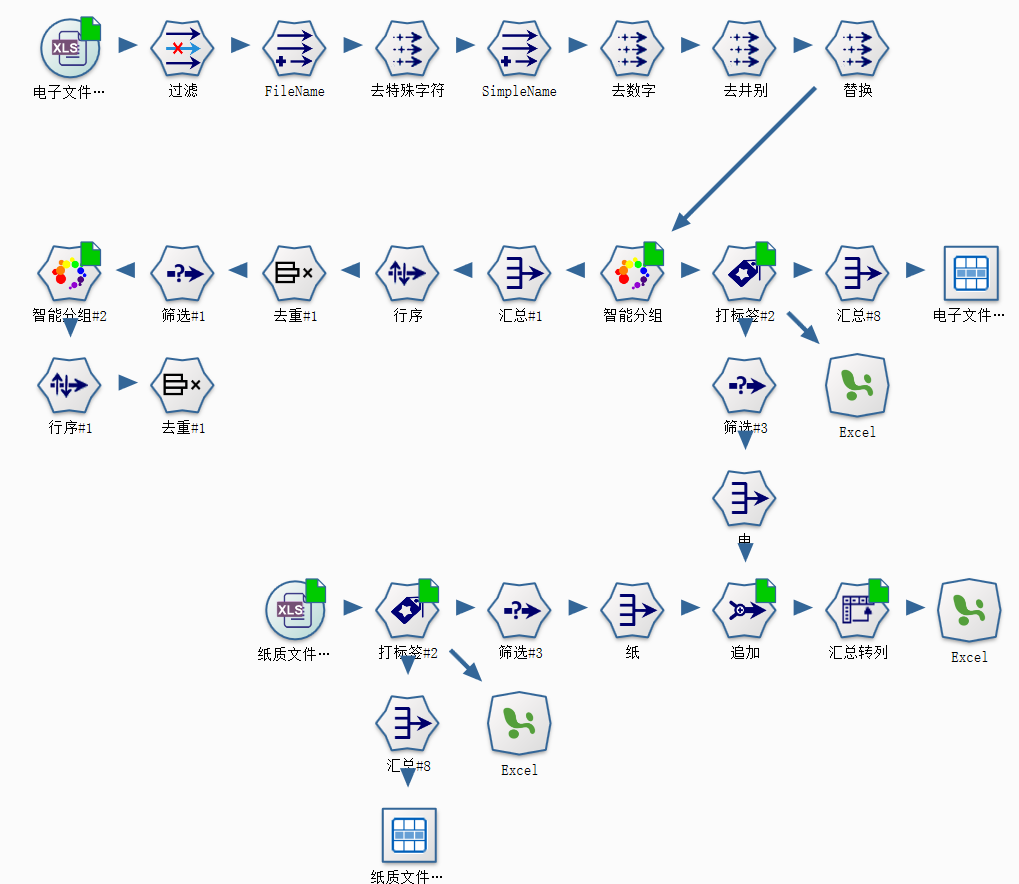
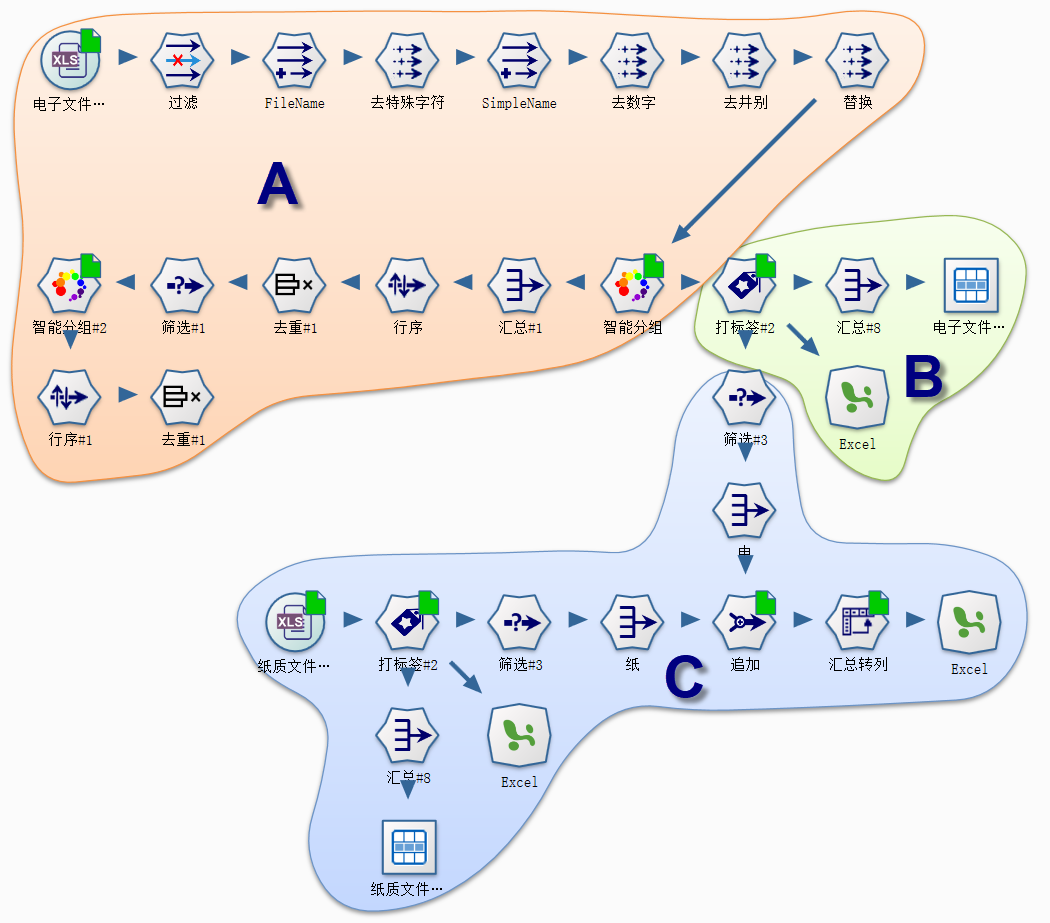
s
a

diff --git a/cases/oilfield/ArchivesStoreroom.rst b/cases/oilfield/ArchivesStoreroom.rst
@@ -2,39 +2,50 @@
 
 如何对杂乱的文档进行归类？
 ====================================
-档案馆，是大型企业的基本设施，存放着多年来的企业经营管理的基本数据。油田档案馆的数据资产化管理，以施工项目为数据归档单元，组织存放油田的单井钻井、录井、测井、试油气等油田生产建设资料；其主要目的是储存生产建设过程中的生产资料。随着油田信息化与数据的深化应用，这种以施工项目为索引的数据组织方式，难以满足油藏研究过程中的以专业学科为核心的深化应用需求。 
+档案馆，是大型企业的基本设施，存放着多年来的企业经营管理的基本数据。然而随着油田勘探开发的深入，对数据深度挖掘的需求越来越多，档案馆以单井施工打包归档的数据组织方式，与以专业数据库为主导的数据深化应用的研究需求之间鸿沟日渐明显。如何在两种数据组织方式之间搭建起桥梁跨越鸿沟，是本案例的研究的主题。
 
-本案例以来自于油田的130万条，文件目录为数据源，阐述如何通过数据专家系统对杂乱的文档进行专业化归类的方法。
+油田档案馆的数据资产化管理，将单井钻井、录井、测井、试油气等施工数据打包上传到档案库中，即“一井一目录”的数据组织方式；这种数据组织方式极大地减轻数据归档的工作量。油田勘探与开发过程中，数据深度挖掘与应用以专业数据库为基础，即按学科按专业分别建库，如钻井库、录井库、测井等。两者的出发点不同，使得数据的组织方式也相距甚远。
 
-**数据源描述**
+本案例，以油田档案馆文件目录为数据源，阐述如何通过数据专家系统对杂乱的文档进行业务归类的方法。
 
-从档案馆导出的130万条文件目录及井名信息；文件目录及名称标明了文档的所属学科大类、小类以及井名、盆地等信息；总体来说，文件目录中隐含着大量的文档归属信息，但相对隐晦、杂乱、层次不清。
+**杂乱有章有数据源**
+
+数据基础是从档案馆导出的130万条文件路径及井名信息；文件路径及名称标明了文档的所属学科大类、小类以及井名、盆地等信息。
+
+对于分组问题，笔者第一感觉可以根据文件路径包含的子串进行分类；然而由于文件归档来源于成千上万的施工单位，使得文件路径中虽包含业务学科信息，但并非严格意义上的子串相等或包含关系，即它们之间关系中相似关系。总体来说，文件路径中隐含着大量的文档业务归属信息，但相对隐晦、杂乱、层次不清。
 
 .. figure:: images/ArchivesStoreroom1.png
      :align: center
      :figwidth: 90% 
      :name: plate 	 
  
-**数据处理流程**
+**子串相似度流程设计**
 
-流程设计核心点在于，对每一个文件打标签，即根据文件目录与已知学科类型之间的文字相似度进行分类。打标签的先决条件是，单学科的涉及语汇与短语的字典，这一点可以通过智能分组节点实现（智能分组根据字符串之间的相似度进行分类，而非业务意义上的学科相似度）。
+文件路径分组流程设计核心点在于，根据文本串相似度的对每一个文件打标签，即根据文件目录与已知学科类型之间的文字相似度进行分类。打标签的先决条件是，建立业务学科语汇与短语的字典，这一点可以通过智能分组节点实现（智能分组根据字符串之间的相似度进行分类，而非业务意义上的学科相似度）。
 
 .. figure:: images/ArchivesStoreroom2.png
      :align: center
      :figwidth: 90% 
      :name: plate 	 
 
+流程可分为三个主要部分，A、建立学科语汇与短语字典，对以文件的名称进行数据清洗，再通过编辑距离、最长共公子串等算法，提取常见的学科短语集；B、采用最长共公子序列相似度算法，对文件目录进行专业归属标记；C、电子版与纸质版文件拥有量盘查与比对。 
+	 
 .. figure:: images/ArchivesStoreroom3.png
      :align: center
      :figwidth: 90% 
-     :name: plate 	 
+     :name: plate 
 	 
+	 用于打标签节点的专业学科语汇与短语字典
+
 .. figure:: images/ArchivesStoreroom4.png
      :align: center
      :figwidth: 90% 
      :name: plate 	 
 	 
-**处理结果**
+	 采用相似度算法进行专业归属标记
+	 
+	 
+**自动归类与比对结果**
 
 文档自动化学科分类结果。通过数据专家系统耗时20钟，完成百万文档的自动化学科分类，结果符合率98%以上。
 
